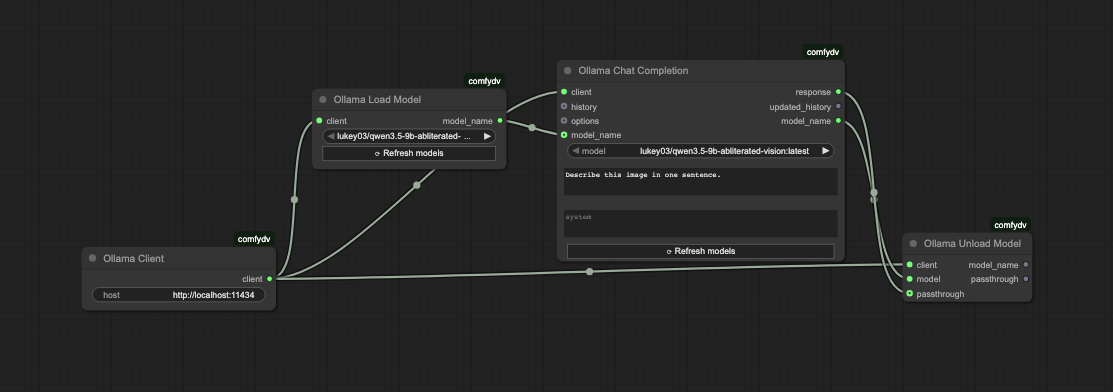
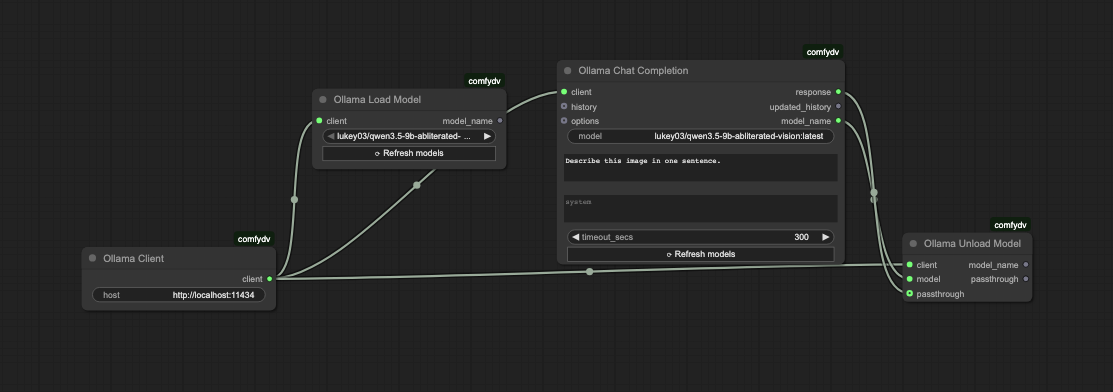
feat(chat): I-commit — model→STRING, OLLAMA_HOST docker support, dynamic test fixtures
- OllamaChatCompletion.model changed from COMBO to plain STRING so it can
  receive a wired value from OllamaLoadModel without a separate model_name
  socket (removes dual-input UX confusion and COMBO validation errors)
- Removed model_name optional input — model STRING is the single entry point
- _load_default_models() tries OLLAMA_HOST env var → host.docker.internal →
  localhost so COMBO nodes pre-populate on server start inside Docker
- docker-compose.dev.yml: OLLAMA_HOST=http://host.docker.internal:11434 so
  model dropdowns are populated at startup without a manual Refresh click
- JS: refreshModelWidget handles both COMBO and STRING widget types; keeps
  user-typed/wired value when it is already a known model
- Tests: first_generative_model fixture dynamically selects the first
  installed model instead of hardcoding embeddinggemma:latest (which is an
  embedding-only model that rejects /api/generate with HTTP 400)
- Tests: test_multi_turn_receives_context passes think=False to prevent
  Qwen3 thinking-mode models from returning empty content fields
- Screenshots retaken: ollama_chat.png, ollama_lifecycle.png, ollama_workflow.png

All 80 unit + 9 integration tests pass.

Claude-Session: https://claude.ai/code/session_01RWysE6jYn4YjNorLBQ1cXb

Changed region(s): [[0.4888, 0.3367, 0.7637, 0.4592], [0.4888, 0.5816, 0.7637, 0.7041], [0.4582, 0.3061, 0.4888, 0.3367]]

diff --git a/src/js/ollama.js b/src/js/ollama.js
@@ -1,24 +1,33 @@
 /**
  * ollama.js — ComfyUI frontend extension for comfydv Ollama nodes.
  *
- * Populates model COMBO widgets on OllamaModelSelector, OllamaLoadModel, and
- * OllamaChatCompletion from a live call to GET /dv/ollama/models?host=<url>.
+ * Populates the model widget on Ollama nodes from a live call to
+ * GET /dv/ollama/models?host=<url>.
+ *
+ * OllamaModelSelector and OllamaLoadModel use a COMBO widget (dropdown).
+ * OllamaChatCompletion uses a plain STRING widget (accepts wired values).
+ * The Refresh button works the same way for both: it fetches the live list
+ * and sets the widget value / updates COMBO options as appropriate.
  */
 
 import { app } from "../../scripts/app.js";
 
-const OLLAMA_COMBO_NODES = new Set([
-    "OllamaModelSelector",
-    "OllamaLoadModel",
-    "OllamaChatCompletion",
-]);
+/** Nodes whose model widget is a COMBO dropdown. */
+const OLLAMA_COMBO_NODES = new Set(["OllamaModelSelector", "OllamaLoadModel"]);
+
+/** Nodes whose model widget is a plain STRING (accepts wired input). */
+const OLLAMA_STRING_MODEL_NODES = new Set(["OllamaChatCompletion"]);
+
+const OLLAMA_ALL_NODES = new Set([...OLLAMA_COMBO_NODES, ...OLLAMA_STRING_MODEL_NODES]);
 
 /**
- * Fetch model list from the backend and repopulate the COMBO widget.
- * @param {LGraphNode} node
- * @param {string} host - Ollama host URL, e.g. "http://localhost:11434"
+ * Fetch model list and update the node's model widget.
+ * Works for both COMBO and STRING widgets:
+ *   - COMBO: updates options.values + preserves selection if model still exists.
+ *   - STRING: sets the value to the first model; keeps existing value if it
+ *             still appears in the live list (user may have typed a valid name).
  */
-async function refreshModelDropdown(node, host) {
+async function refreshModelWidget(node, host) {
     try {
         const resp = await fetch(`/dv/ollama/models?host=${encodeURIComponent(host)}`);
         if (!resp.ok) return;
@@ -29,12 +38,22 @@ async function refreshModelDropdown(node, host) {
         const modelWidget = node.widgets?.find(w => w.name === "model");
         if (!modelWidget) return;
 
-        const current = modelWidget.value;
-        modelWidget.options.values = models;
-        modelWidget.value = models.includes(current) ? current : models[0];
+        const current = (modelWidget.value ?? "").trim();
+
+        if (Array.isArray(modelWidget.options?.values)) {
+            // COMBO widget
+            modelWidget.options.values = models;
+            modelWidget.value = models.includes(current) ? current : models[0];
+        } else {
+            // STRING widget — keep current value if it is a known model
+            if (!current || !models.includes(current)) {
+                modelWidget.value = models[0];
+            }
+        }
+
         node.setDirtyCanvas(true, false);
     } catch (_) {
-        // Ollama unreachable — leave COMBO with server-side defaults
+        // Ollama unreachable — leave widget unchanged
     }
 }
 
@@ -43,8 +62,7 @@ async function refreshModelDropdown(node, host) {
  *
  * First checks the node's own widgets (OllamaClient has a "host" widget).
  * Otherwise traverses graph links to find a connected OllamaClient node and
- * reads its "host" widget — this is the common case for downstream nodes
- * (ModelSelector, LoadModel, ChatCompletion) that receive the client socket.
+ * reads its "host" widget — this is the common case for downstream nodes.
  */
 function getHostFromNode(node) {
     const ownHostWidget = node.widgets?.find(w => w.name === "host");
@@ -68,21 +86,21 @@ app.registerExtension({
     name: "comfydv.ollama",
 
     async beforeRegisterNodeDef(nodeType, nodeData) {
-        if (!OLLAMA_COMBO_NODES.has(nodeData.name)) return;
+        if (!OLLAMA_ALL_NODES.has(nodeData.name)) return;
 
         const onNodeCreated = nodeType.prototype.onNodeCreated;
         nodeType.prototype.onNodeCreated = function () {
             const result = onNodeCreated?.apply(this, arguments);
 
-            // Add a refresh button below the model widget
+            // Add a Refresh button below the model widget
             this.addWidget("button", "⟳ Refresh models", null, () => {
                 const host = getHostFromNode(this);
-                refreshModelDropdown(this, host);
+                refreshModelWidget(this, host);
             });
 
-            // Initial population
+            // Initial population on node creation
             const host = getHostFromNode(this);
-            refreshModelDropdown(this, host);
+            refreshModelWidget(this, host);
 
             return result;
         };

diff --git a/src/comfydv/ollama.py b/src/comfydv/ollama.py
@@ -11,6 +11,7 @@ ADR-005: OllamaClient node is the single source of the host URL.
 import asyncio
 import json
 import logging
+import os
 import sys
 
 logger = logging.getLogger(__name__)
@@ -82,10 +83,36 @@ async def _post_json(url: str, payload: dict, *, timeout: float = 120.0) -> dict
         raise RuntimeError(f"Cannot reach Ollama at {url}: {exc}") from exc
 
 
-# Static placeholder — avoids a network call at import time (which always fails
-# in CI and slows cold-start). The JS refresh button calls /dv/ollama/models
-# at runtime to populate the live list.
-_DEFAULT_MODELS: list[str] = ["(⟳ click Refresh models)"]
+def _load_default_models() -> list[str]:
+    """Fetch the installed model list at server start-up.
+
+    Tries OLLAMA_HOST env var first (set in docker-compose for host.docker.internal),
+    then falls back to localhost.  Returns a one-element placeholder list only when
+    Ollama is genuinely unreachable so that COMBO validation doesn't reject saved
+    workflow values.
+    """
+    candidates = []
+    env_host = os.environ.get("OLLAMA_HOST", "").strip()
+    if env_host:
+        candidates.append(env_host)
+    candidates.append("http://host.docker.internal:11434")
+    candidates.append("http://localhost:11434")
+
+    for host in candidates:
+        models = _run_async(_fetch_models(host))
+        if models:
+            logger.info("Ollama models loaded from %s: %s", host, models)
+            return models
+
+    logger.warning(
+        "Could not reach Ollama at any candidate host %s — "
+        "model dropdowns will be empty until a Refresh is clicked.",
+        candidates,
+    )
+    return ["(start Ollama — click ⟳ Refresh)"]
+
+
+_DEFAULT_MODELS: list[str] = _load_default_models()
 
 
 # ---------------------------------------------------------------------------
@@ -255,16 +282,15 @@ class OllamaChatCompletion:
         return {
             "required": {
                 "client": ("OLLAMA_CLIENT",),
-                "model": (_DEFAULT_MODELS, {}),
+                # Plain STRING so it can receive a wired value from OllamaLoadModel
+                # (or OllamaModelSelector) without needing a separate model_name socket.
+                "model": ("STRING", {"default": ""}),
                 "prompt": ("STRING", {"multiline": True, "default": ""}),
             },
             "optional": {
                 "system": ("STRING", {"multiline": True, "default": ""}),
                 "history": ("OLLAMA_HISTORY",),
                 "options": ("OLLAMA_OPTIONS",),
-                # Wire OllamaLoadModel.model_name here to guarantee load runs
-                # before chat and to override the dropdown with the wired value.
-                "model_name": ("STRING", {"forceInput": True}),
                 "timeout_secs": ("INT", {"default": 300, "min": 30, "max": 3600}),
             },
         }
@@ -282,12 +308,11 @@ class OllamaChatCompletion:
         system="",
         history=None,
         options=None,
-        model_name=None,
         timeout_secs=300,
     ):
-        effective_model = (
-            model_name.strip() if model_name and model_name.strip() else model
-        )
+        effective_model = model.strip()
+        if not effective_model:
+            raise ValueError("model cannot be empty — type a model name or wire one in")
         if history is None:
             history = []
         messages = list(history)

diff --git a/tests/test_ollama.py b/tests/test_ollama.py
@@ -374,12 +374,14 @@ class TestUS3ModelLifecycle:
         )
 
     @pytest.mark.integration
-    def test_load_model_returns_name(self, ollama_host, skip_if_no_ollama):
+    def test_load_model_returns_name(
+        self, ollama_host, skip_if_no_ollama, first_generative_model
+    ):
         """Scenario: Load Model loads model into Ollama memory."""
         (result,) = OllamaLoadModel().load_model(
-            client=ollama_host, model="embeddinggemma:latest"
+            client=ollama_host, model=first_generative_model
         )
-        assert result == "embeddinggemma:latest"
+        assert result == first_generative_model
 
     def test_unload_returns_two_values(self):
         """OllamaUnloadModel returns (model_name, passthrough) tuple."""
@@ -396,15 +398,15 @@ class TestUS3ModelLifecycle:
 
     @pytest.mark.integration
     def test_unload_model_returns_name_and_passthrough(
-        self, ollama_host, skip_if_no_ollama
+        self, ollama_host, skip_if_no_ollama, first_generative_model
     ):
         """Scenario: Unload evicts model; passthrough flows through unchanged."""
         model_name, passthrough = OllamaUnloadModel().unload_model(
             client=ollama_host,
-            model="embeddinggemma:latest",
+            model=first_generative_model,
             passthrough="sentinel",
         )
-        assert model_name == "embeddinggemma:latest"
+        assert model_name == first_generative_model
         assert passthrough == "sentinel"
 
 
@@ -521,7 +523,6 @@ class TestUS4ChatCompletion:
         assert isinstance(history, list)
         assert model_name == "m"
 
-
     # ---- Issue 6: Chat timeout widget -----------------------------------------
 
     def test_chat_has_timeout_secs_input(self):
@@ -586,18 +587,25 @@ class TestUS4ChatCompletion:
 
     @pytest.mark.integration
     def test_multi_turn_receives_context(self, ollama_host, skip_if_no_ollama):
-        """Scenario: Multi-turn completion receives full conversation context."""
+        """Scenario: Multi-turn completion receives full conversation context.
+
+        Passes think=False to prevent Qwen3-family models from returning all
+        output as thinking tokens with an empty content field.
+        """
+        no_think = {"think": False}
         _, history, _ = OllamaChatCompletion().chat(
             client=ollama_host,
             model=_CHAT_MODEL,
             prompt="My name is Alice. Remember it.",
             history=[],
+            options=no_think,
         )["result"]
         response, updated, _ = OllamaChatCompletion().chat(
             client=ollama_host,
             model=_CHAT_MODEL,
             prompt="What is my name?",
             history=history,
+            options=no_think,
         )["result"]
         assert "Alice" in response
         assert len(updated) == 4

diff --git a/tests/conftest.py b/tests/conftest.py
@@ -89,6 +89,25 @@ def skip_if_no_ollama(ollama_available):
         )
 
 
[email redacted](scope="session")
+def first_generative_model(ollama_host, ollama_available):
+    """Return the first model available from Ollama, skipping embedding-only models.
+
+    Used by lifecycle tests that call /api/generate — embedding models like
+    embeddinggemma reject that endpoint with HTTP 400.
+    """
+    if not ollama_available:
+        pytest.skip("Ollama not reachable at localhost:11434")
+    import asyncio
+
+    from comfydv.ollama import _fetch_models
+
+    models = asyncio.run(_fetch_models(ollama_host))
+    if not models:
+        pytest.skip("No models installed in Ollama")
+    return models[0]
+
+
 # ---------------------------------------------------------------------------
 # Existing ComfyUI node fixtures
 # ---------------------------------------------------------------------------